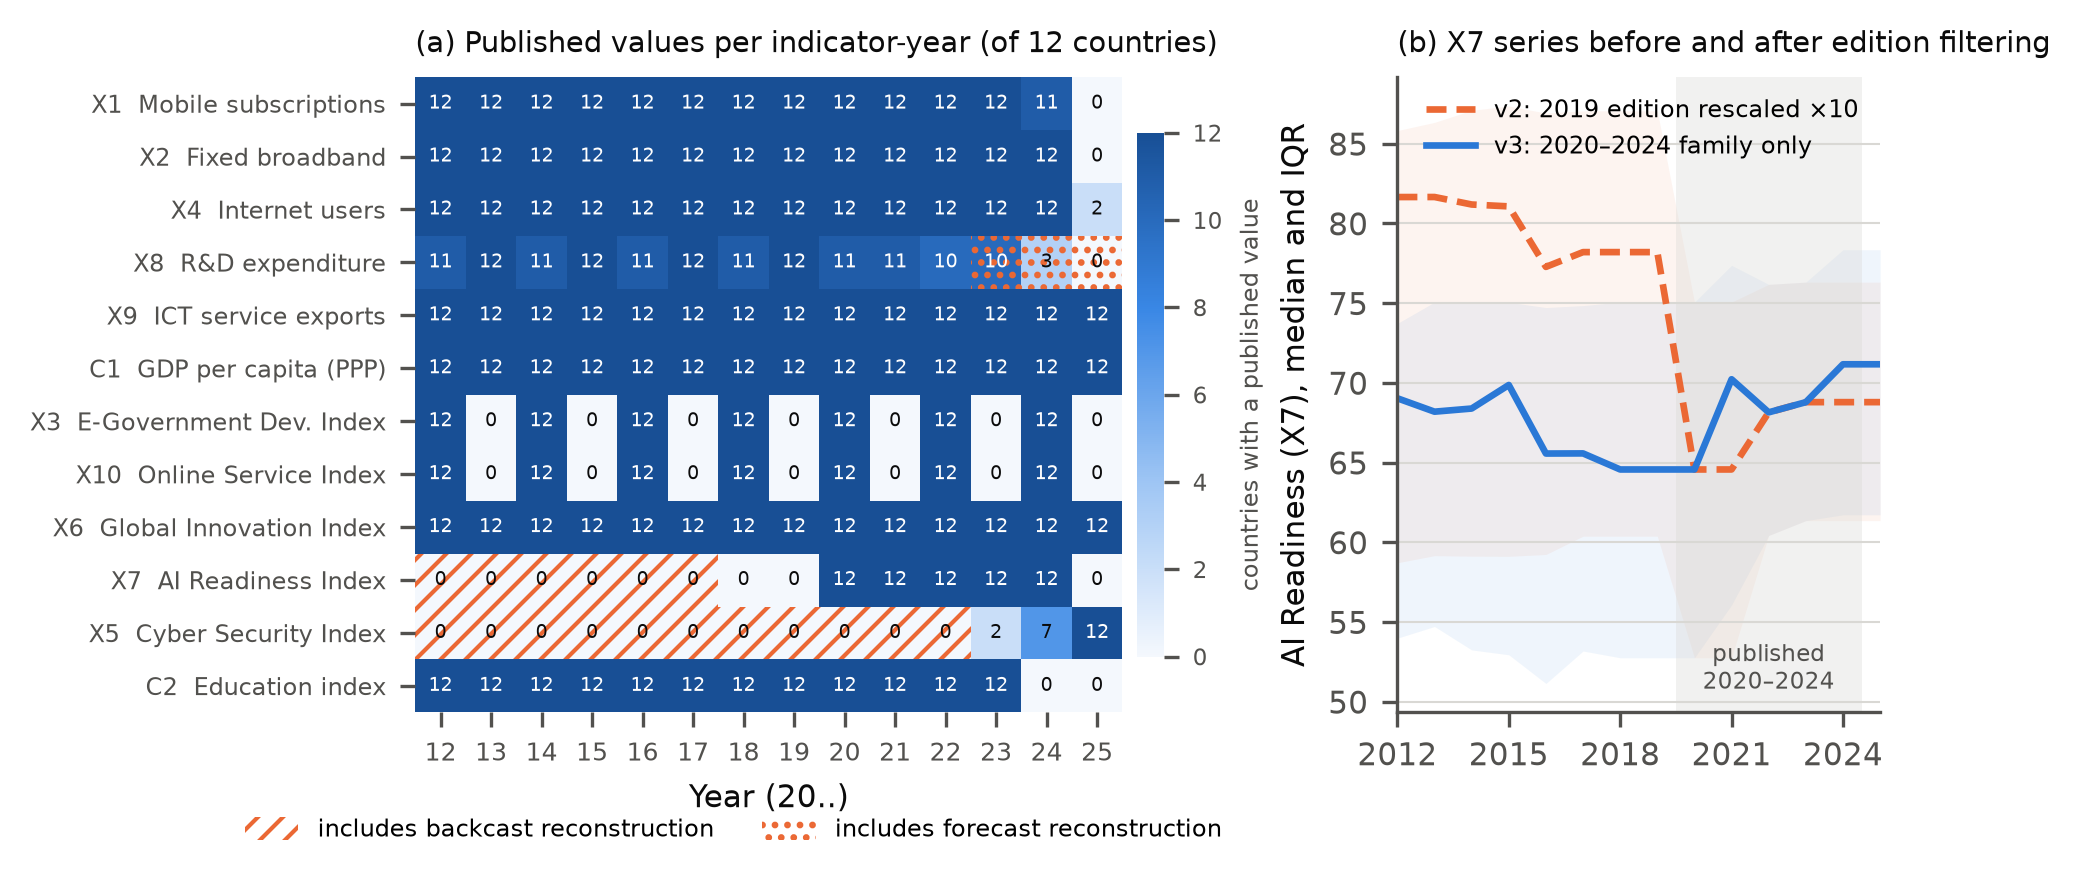
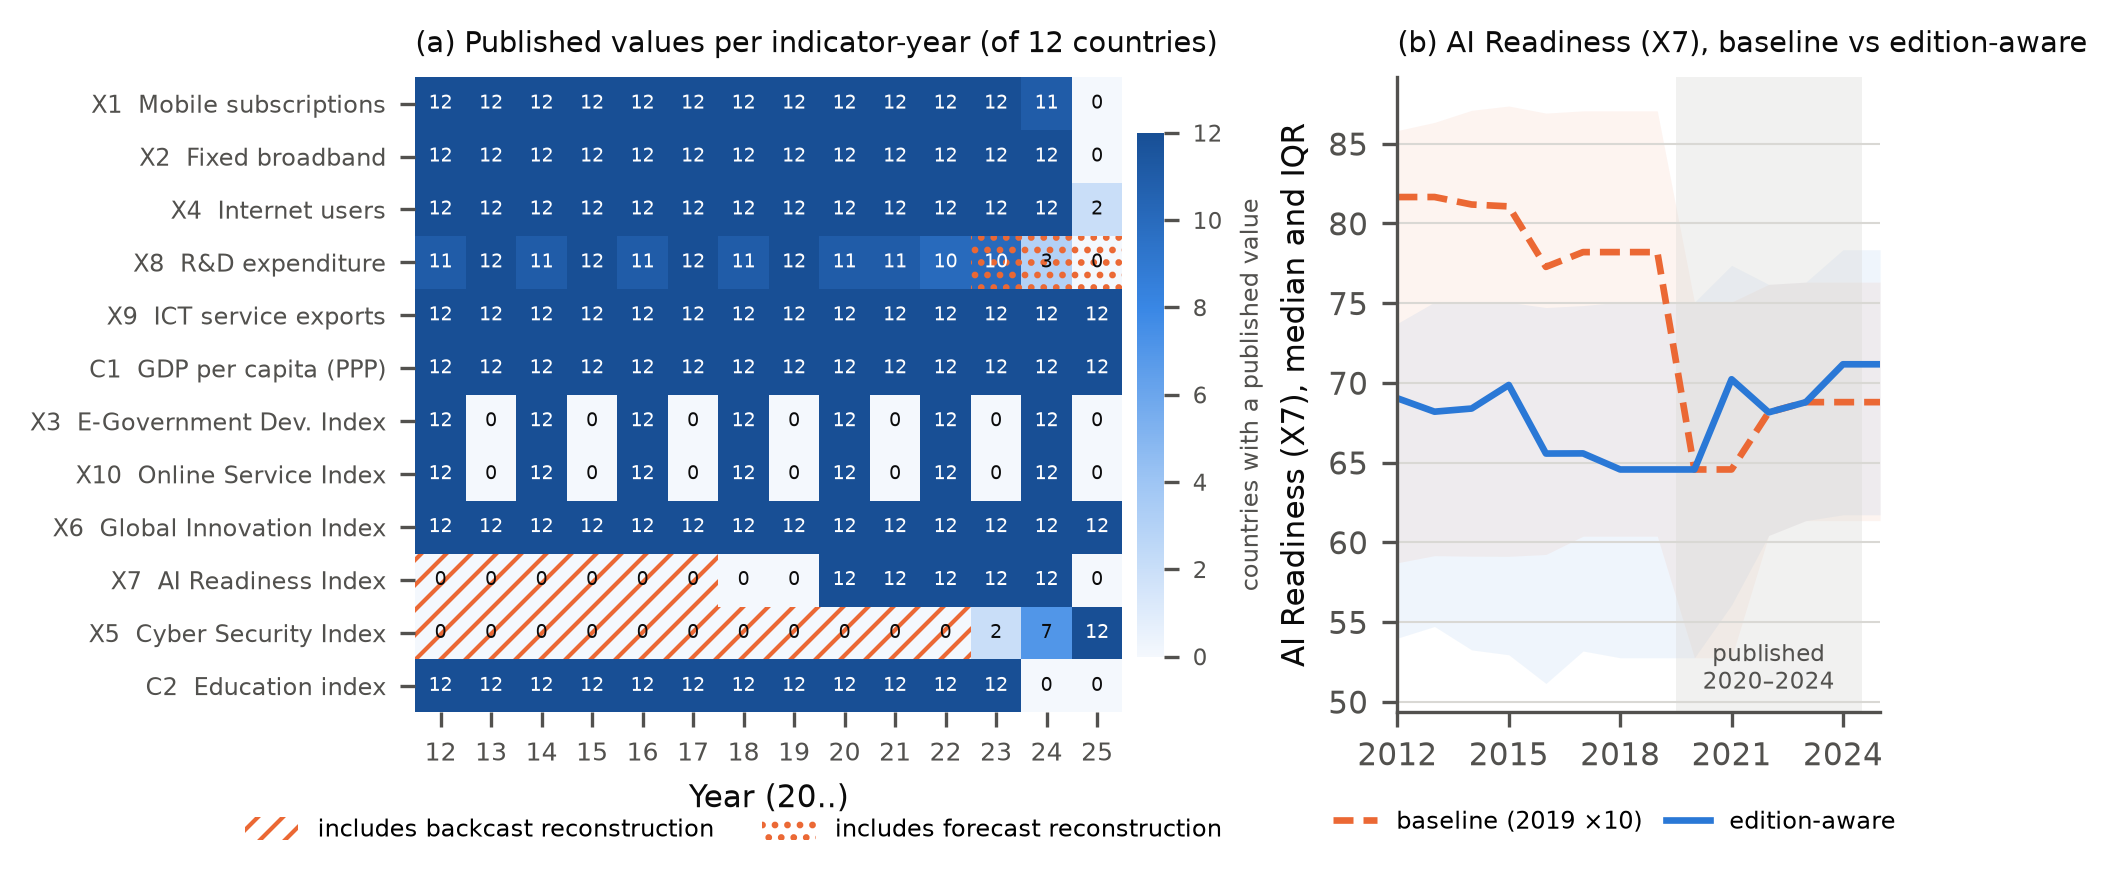
Figure 2b: label the panels as baseline and edition-aware; legend below the plot
Numbers unchanged.

diff --git a/scripts/export_preprocessing_evidence.py b/scripts/export_preprocessing_evidence.py
@@ -530,8 +530,8 @@ def figure_provenance_and_breaks() -> Path:
 
     v2 = keyed(processed("v2r_reproduction", "panel_wide.parquet"))["X7"].unstack()
     v3x = keyed(processed("v3_edition_harmonised", "panel_wide.parquet"))["X7"].unstack()
-    for frame, color, style, label in ((v2, ORANGE, (0, (3, 1.5)), "v2: 2019 edition rescaled ×10"),
-                                       (v3x, BLUE, "solid", "v3: 2020–2024 family only")):
+    for frame, color, style, label in ((v2, ORANGE, (0, (3, 1.5)), "baseline (2019 ×10)"),
+                                       (v3x, BLUE, "solid", "edition-aware")):
         med = frame.median(axis=0)
         ax2.plot(med.index, med.values, color=color, linestyle=style, linewidth=1.6, label=label)
         ax2.fill_between(med.index, frame.quantile(0.25, axis=0), frame.quantile(0.75, axis=0),
@@ -541,9 +541,10 @@ def figure_provenance_and_breaks() -> Path:
     ax2.set_xlim(2012, 2025)
     ax2.set_xticks([2012, 2015, 2018, 2021, 2024])
     ax2.set_ylabel("AI Readiness (X7), median and IQR")
-    ax2.set_title("(b) X7 series before and after edition filtering", fontsize=7, loc="left", color=INK)
+    ax2.set_title("(b) AI Readiness (X7), baseline vs edition-aware", fontsize=7, loc="left", color=INK)
     ax2.grid(axis="y", color=GRID, linewidth=0.5)
-    ax2.legend(frameon=False, fontsize=5.8, loc="upper right")
+    ax2.legend(frameon=False, fontsize=5.8, loc="upper center", bbox_to_anchor=(0.45, -0.12), ncol=2,
+               handlelength=1.8, columnspacing=1.0)
     path = OUT / "figures" / "fig2_provenance_breaks.png"
     fig.savefig(path, dpi=300, bbox_inches="tight", facecolor="white")
     plt.close(fig)
